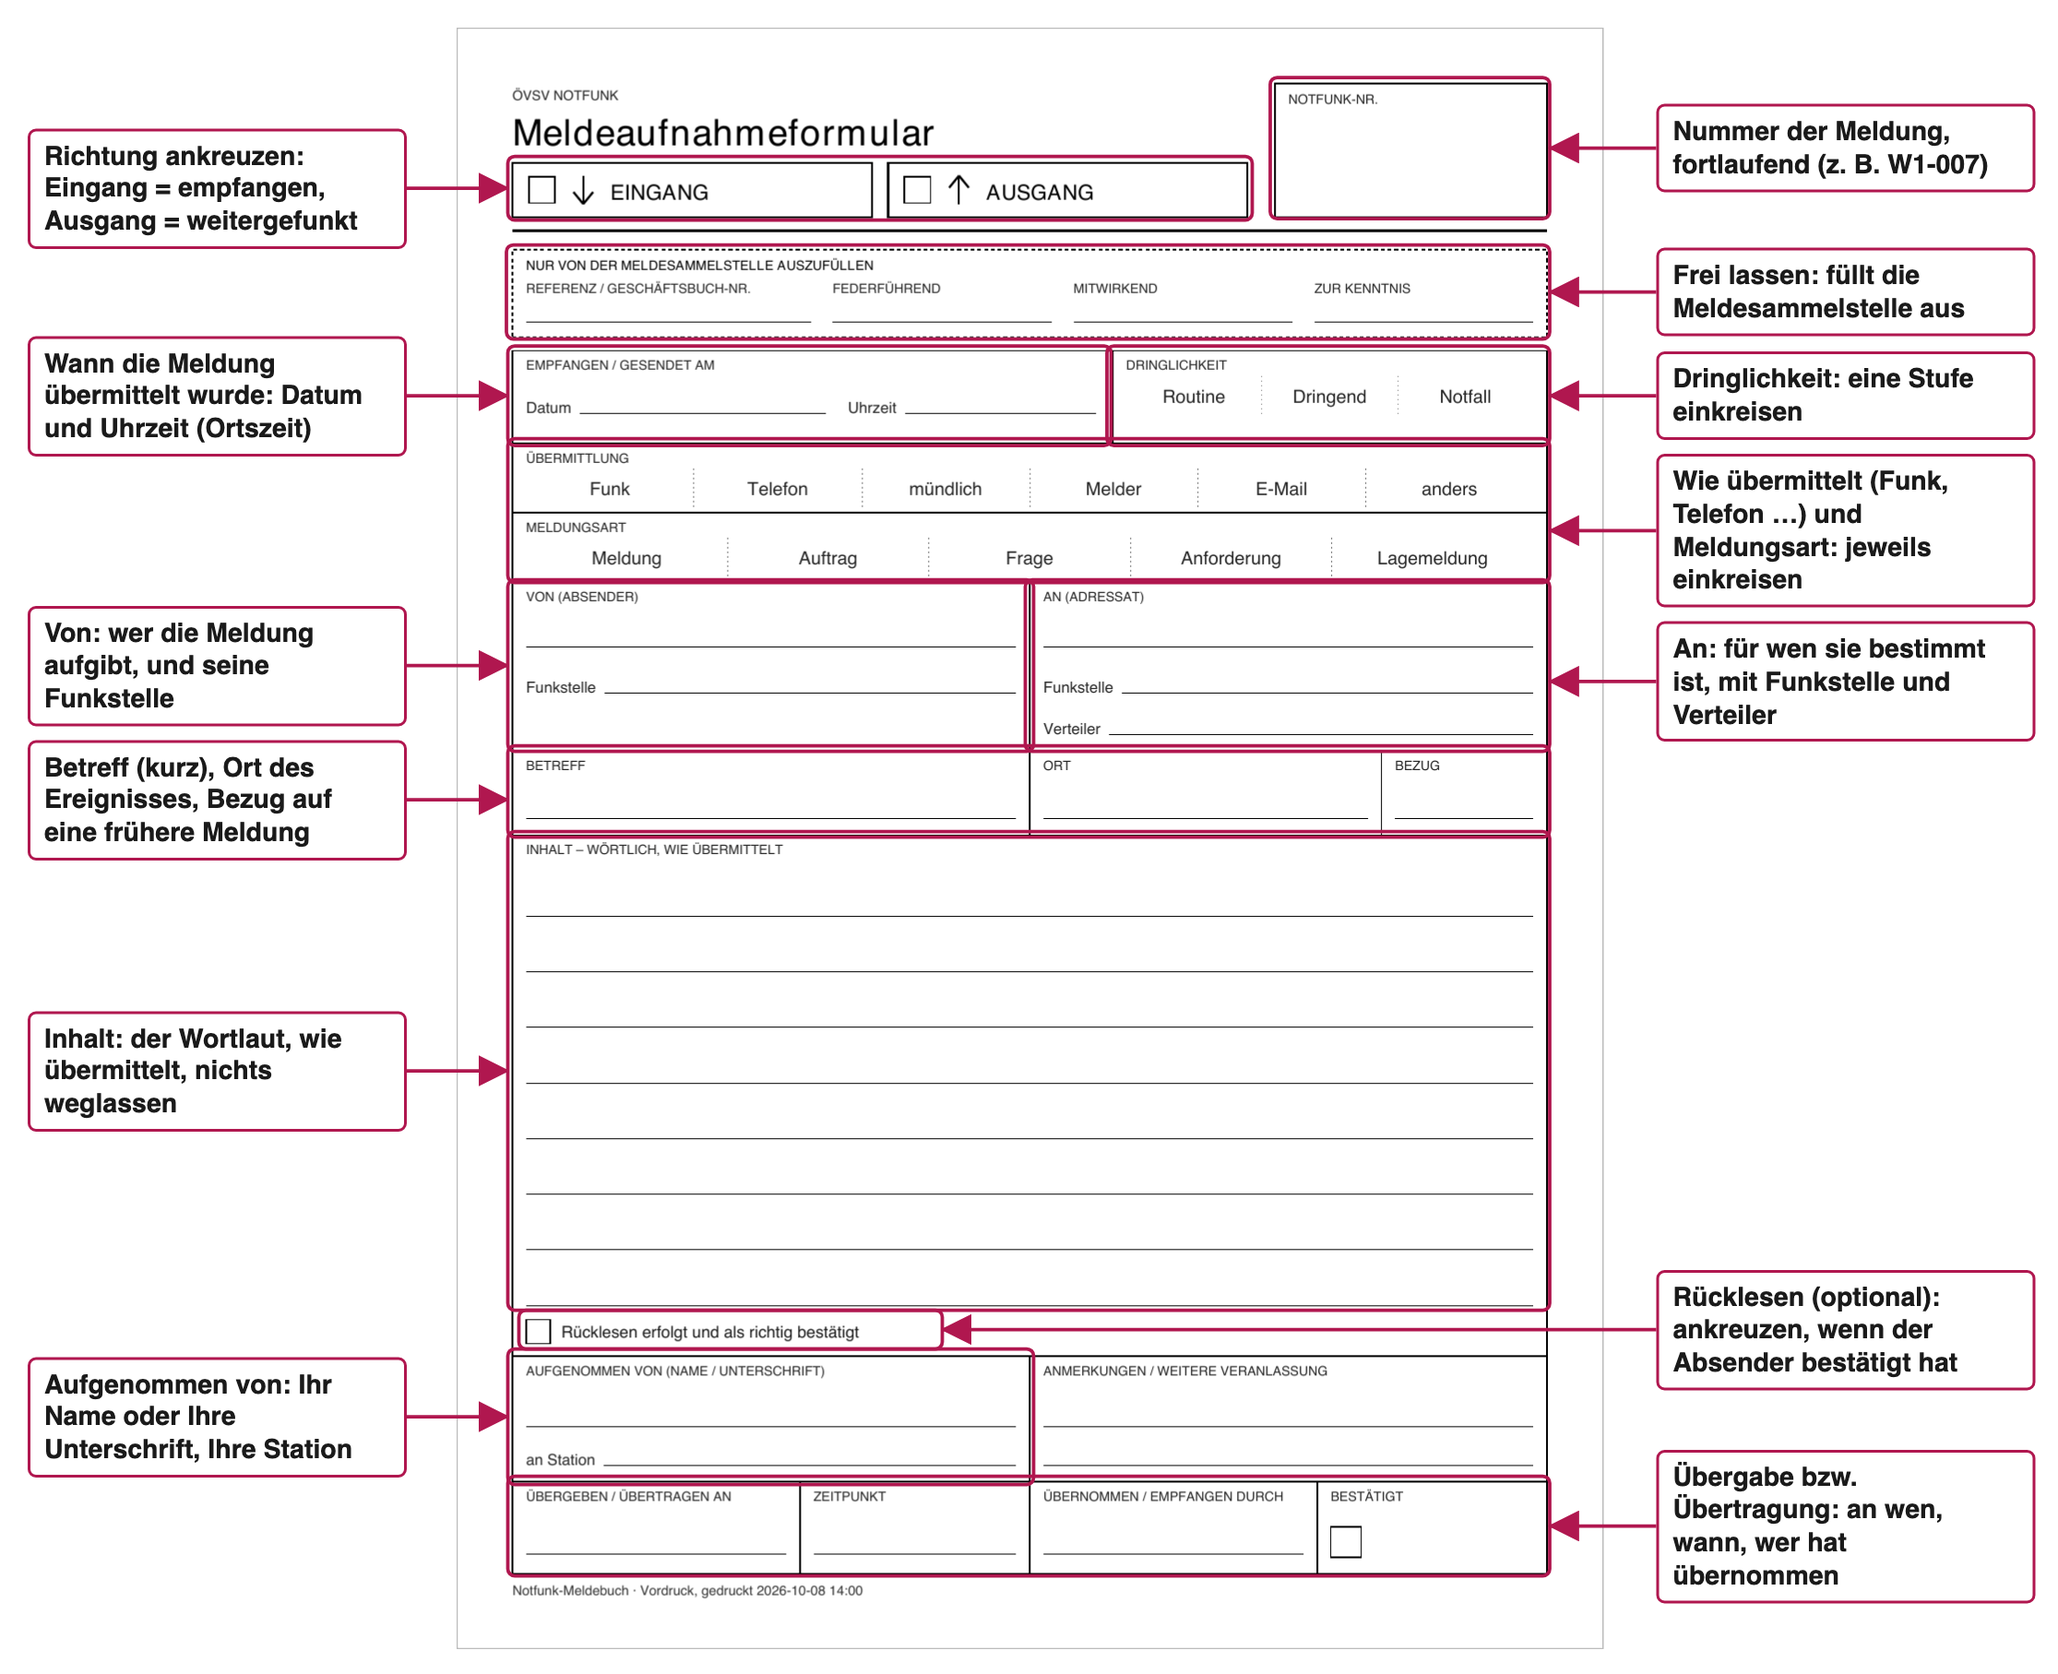
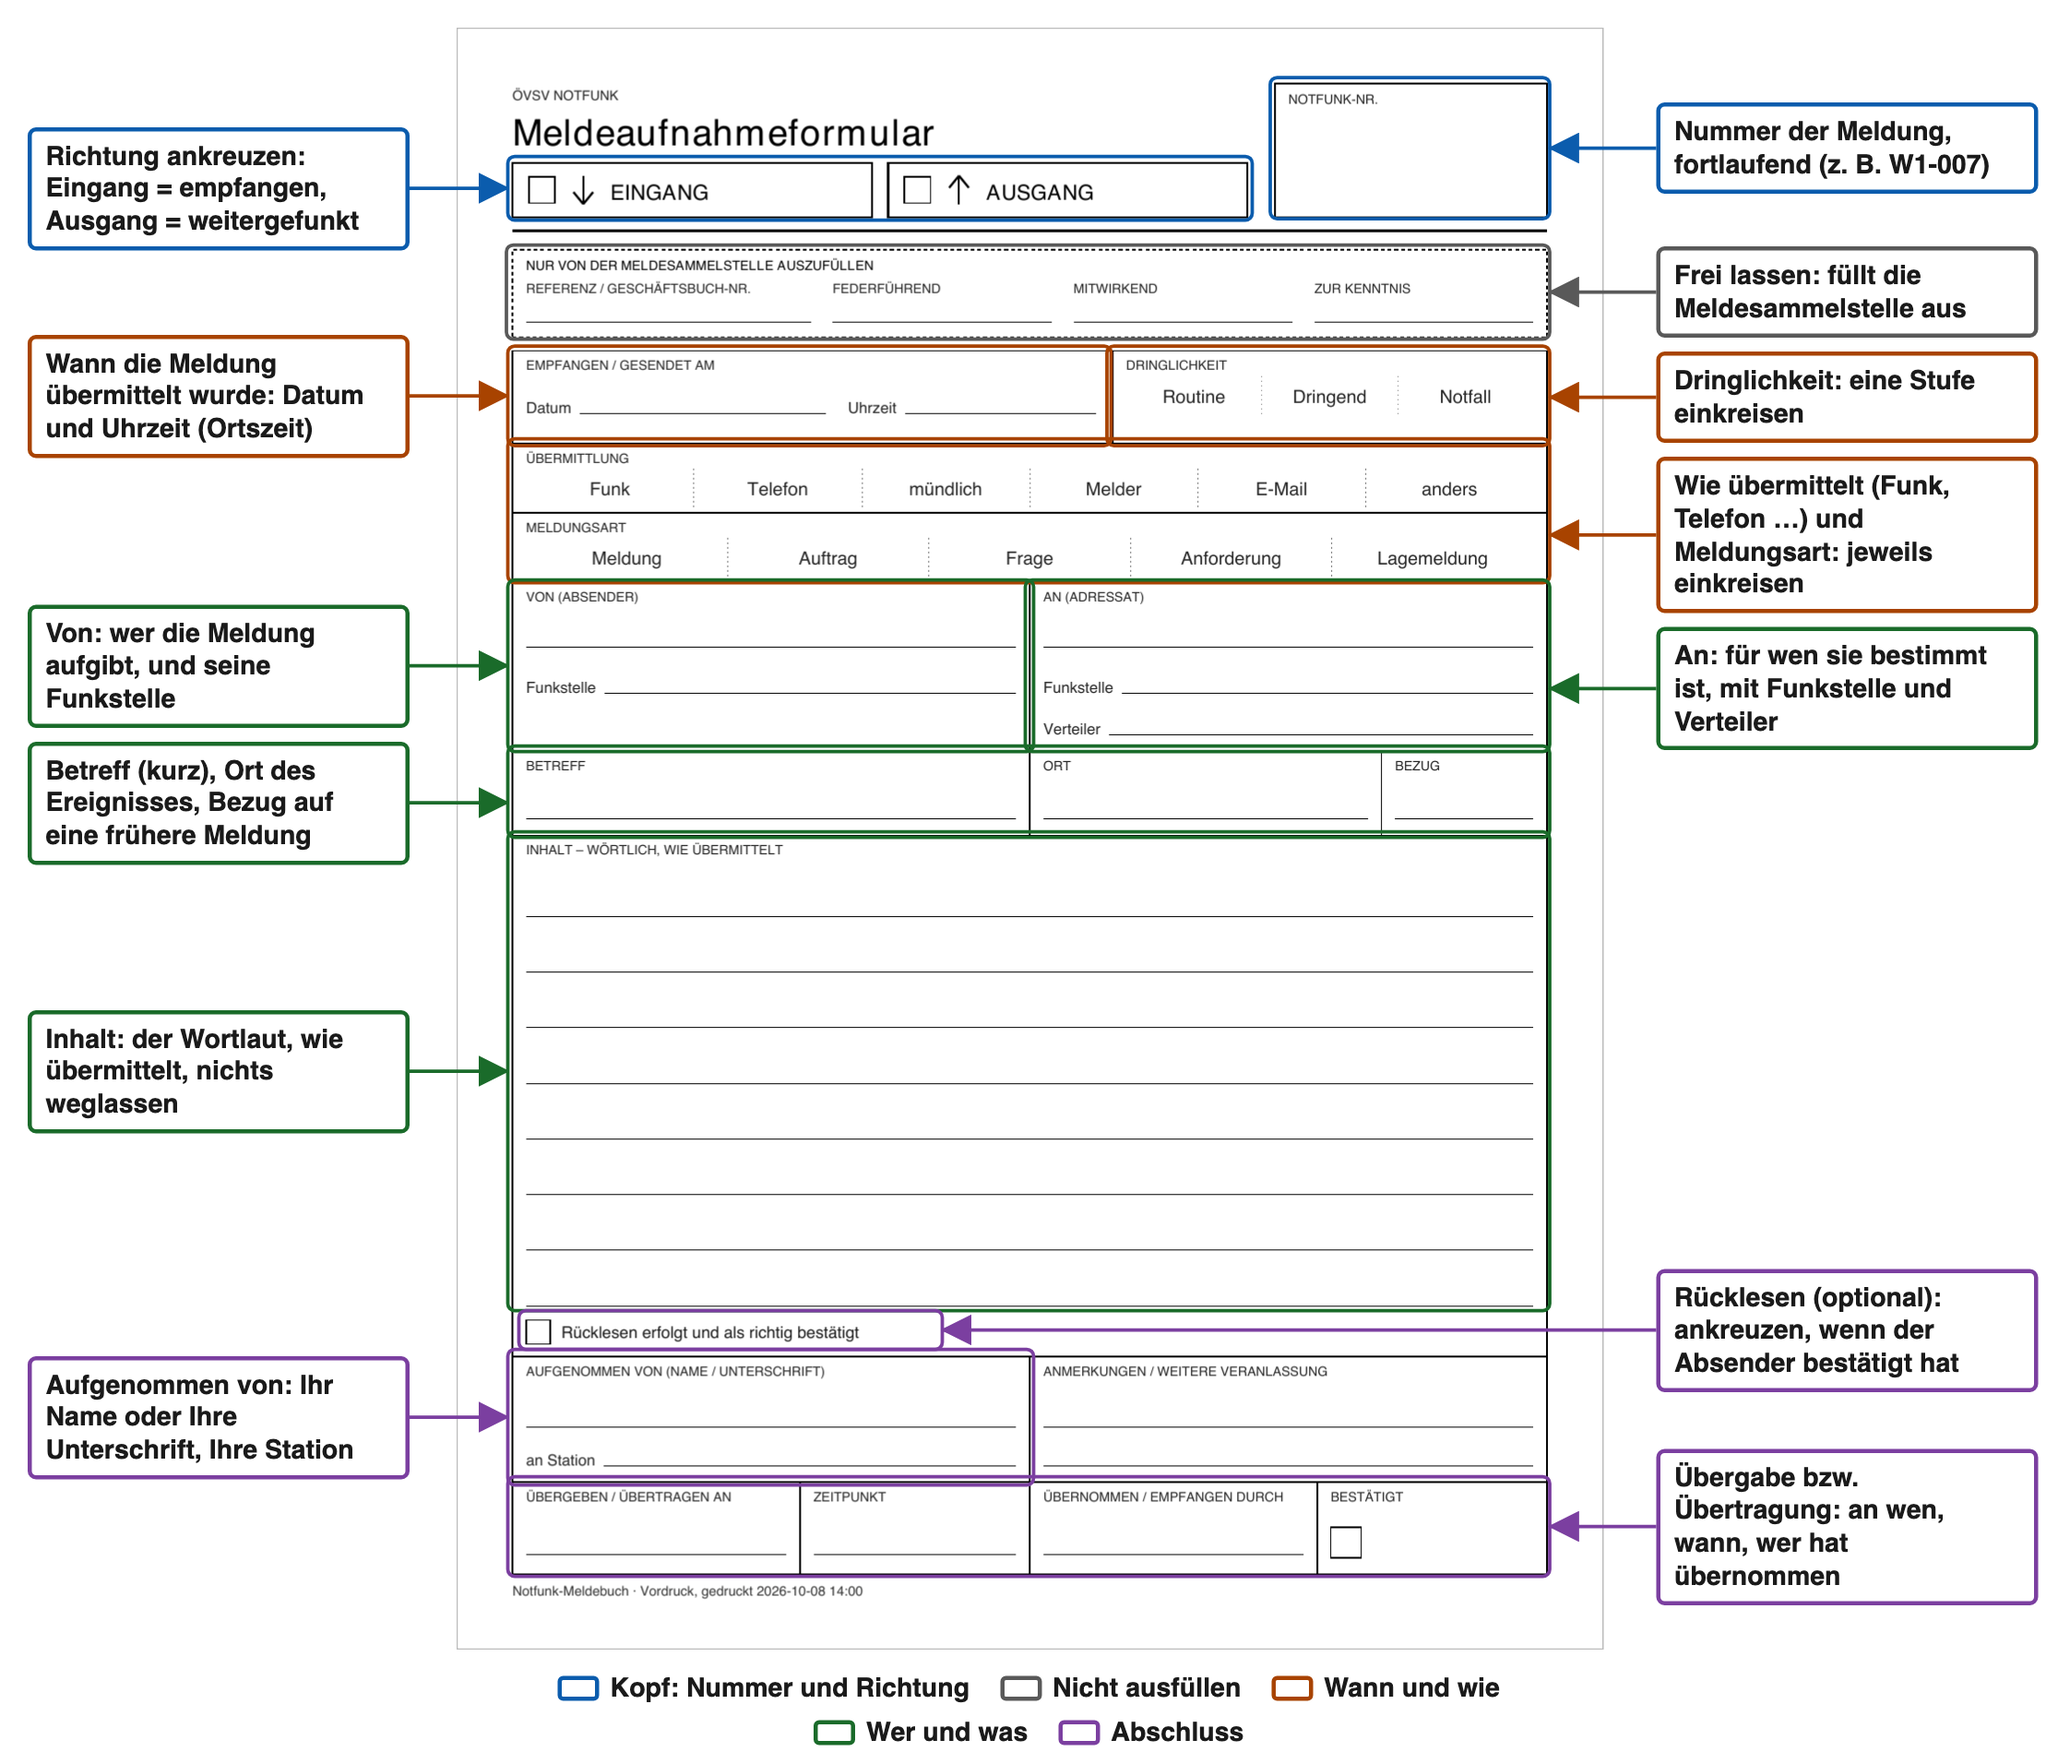
Notfunk manual: annotated forms group fields by colour
The groups (Kopf, Nicht ausfüllen, Wann und wie, Wer und was, Abschluss) have
their own colours, all at least 5.5:1 against white, and are named in a
legend under the picture and in the alt text; the labels carry the meaning,
the colour only the grouping.

diff --git a/docs/notfunk-anleitung/meldung.md b/docs/notfunk-anleitung/meldung.md
@@ -20,9 +20,9 @@ Das Formular steht im Meldebuch ganz oben. Die nächste Nummer wird angezeigt
 „Übergeben“ oder „übertragen“ heißt nie, dass ein Auftrag im Inhalt erledigt
 ist.
 
-[![Das Formular „Neue Meldung“ mit beschrifteten Feldern: Nummer, Richtung, Zeit, Übermittlung, Funkstelle, Frequenz und Relais, Von, An, Dringlichkeit, Betreff, Ort, Inhalt, Rücklesen, Weitere Felder, Speichern](../img/notfunk-formular-beschriftet.png){ .wide }](../img/notfunk-formular-beschriftet.png)
+[![Das Formular „Neue Meldung“ mit beschrifteten und nach Zusammengehörigkeit farbig gruppierten Feldern. Kopf: Nummer, Richtung. Wann und wie: Zeit, Übermittlung, Funkstelle, Frequenz und Relais, Dringlichkeit. Wer und was: Von, An, Betreff, Ort, Inhalt. Abschluss: Rücklesen, Weitere Felder, Speichern](../img/notfunk-formular-beschriftet.png){ .wide }](../img/notfunk-formular-beschriftet.png)
 
-Jedes Feld ist im Bild beschriftet. Wenn Sie die Meldung **empfangen** haben, wählen Sie „Eingang“; wenn Sie sie
+Jedes Feld ist im Bild beschriftet; die Farben zeigen, was zusammengehört. Wenn Sie die Meldung **empfangen** haben, wählen Sie „Eingang“; wenn Sie sie
 **weiterfunken**, „Ausgang“. Zeiten und Daten geben Sie so ein, wie sie
 angezeigt werden (`2026-10-08`, `14:05`); `20261008` und `1405` gehen auch.
 Alle Zeiten sind **Ortszeit**, in 24-Stunden-Schreibweise.

diff --git a/docs/notfunk-anleitung/ausdruck.md b/docs/notfunk-anleitung/ausdruck.md
@@ -27,7 +27,9 @@ kreuzen Sie an oder kreisen sie ein.
 Im Meldebuch finden Sie es auch auf der Startseite unter „Leeres Formular
 (PDF)“ und unter „Drucken / PDF…“.
 
-[![Das leere Formular mit beschrifteten Feldern: Nummer, Richtung, Meldesammelstelle (frei lassen), Zeit, Dringlichkeit, Übermittlung und Meldungsart, Von, An, Betreff, Ort, Bezug, Inhalt, Rücklesen, Aufgenommen von, Übergabe](../img/notfunk-vordruck-beschriftet.png){ .wide }](../img/notfunk-vordruck-beschriftet.png)
+[![Das leere Formular mit beschrifteten und nach Zusammengehörigkeit farbig gruppierten Feldern. Kopf: Nummer, Richtung. Nicht ausfüllen: Block der Meldesammelstelle. Wann und wie: Zeit, Dringlichkeit, Übermittlung, Meldungsart. Wer und was: Von, An, Betreff, Ort, Bezug, Inhalt. Abschluss: Rücklesen, Aufgenommen von, Übergabe](../img/notfunk-vordruck-beschriftet.png){ .wide }](../img/notfunk-vordruck-beschriftet.png)
+
+Die Farben im Bild zeigen, welche Felder zusammengehören.
 
 Ausfüllen auf Papier: Wortlaut ins große Feld, wenn möglich **zurücklesen** lassen
 (nicht zwingend) und abhaken, Übergabe bzw. Übertragung unten eintragen. Den Block „Nur von der
